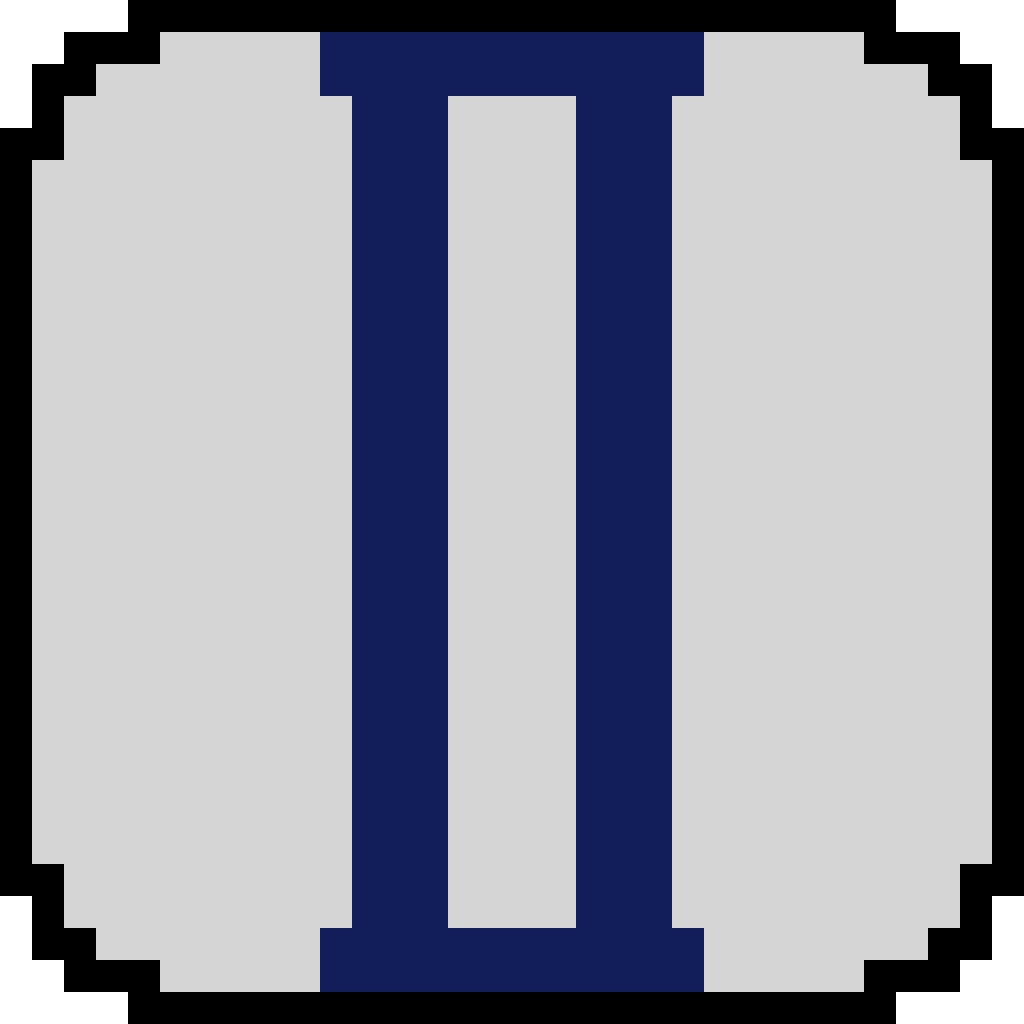
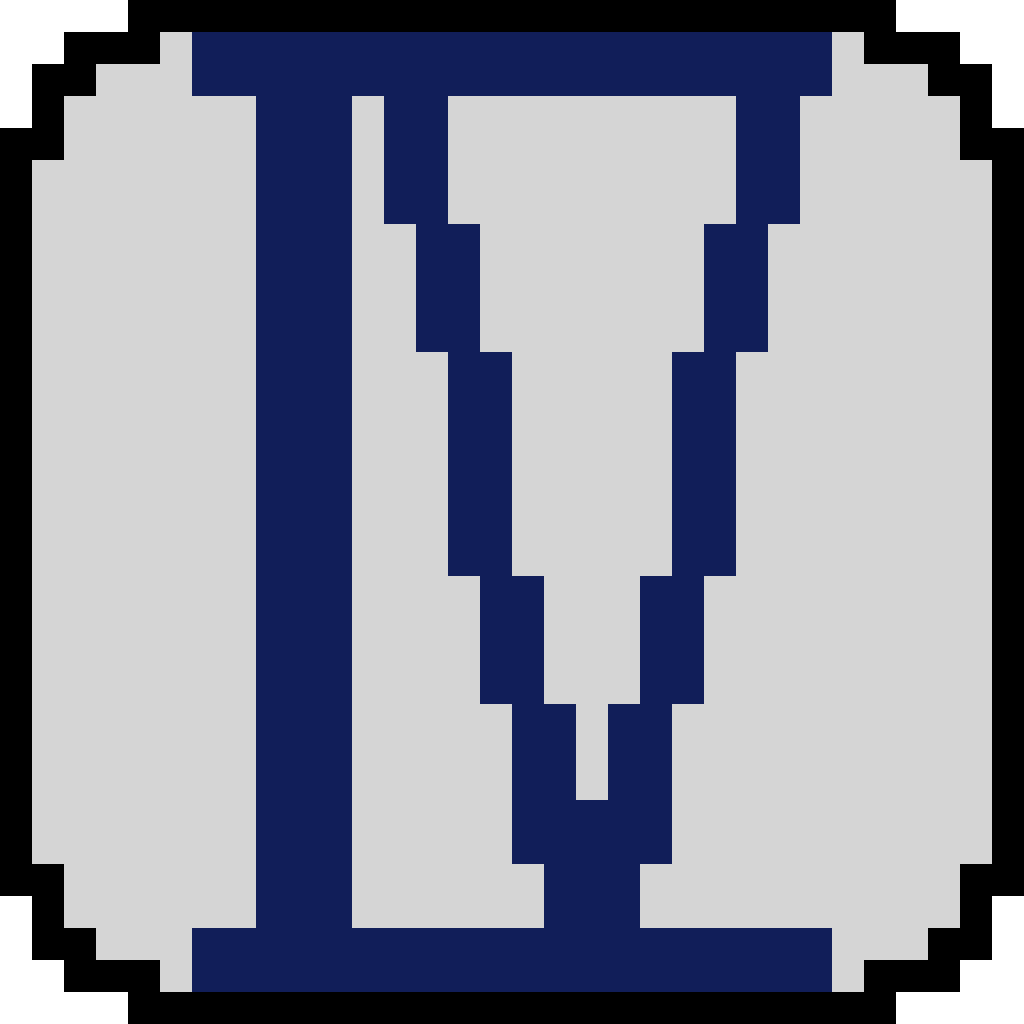
coins correct sprite and swapped levels?

Changed region(s): [[0.1875, 0.0312, 0.8125, 0.9688], [0.6875, 0.9062, 0.8125, 0.9688], [0.625, 0.8438, 0.6562, 0.9062]]

diff --git a/MEDU/Level.cs b/MEDU/Level.cs
@@ -57,6 +57,7 @@ namespace MEDU
             SolidTopLeft, SolidTopMid, SolidTopRight, 
             SolidMidLeft, SolidMidMid, SolidMidRight, 
             SolidBotLeft, SolidBotMid, SolidBotRight,
+            Coin
         }
 
         /// <summary>
@@ -220,7 +221,7 @@ namespace MEDU
                             }
                             break;
                         case 10://coin
-                            coins.Add(new Coin(new Rectangle(x*TILESIZE,y*TILESIZE, TILESIZE,TILESIZE), sprites[1])); //change sprite once coin sprite is uploaded
+                            coins.Add(new Coin(new Rectangle(x*TILESIZE,y*TILESIZE, TILESIZE,TILESIZE), sprites[17])); //change sprite once coin sprite is uploaded
                             goto case 0;
                         default:
                             System.Diagnostics.Debug.WriteLine($"Warning: Found invalid tile {data[dataIndex]} at coordinate ({x}, {y}).");
@@ -274,7 +275,7 @@ namespace MEDU
         /// </summary>
         public static void LoadAssets(ContentManager content)
         {
-            sprites = new Sprite[17];
+            sprites = new Sprite[18];
             sprites[(int)SpriteID.Pixel]         = new Sprite(content.Load<Texture2D>("pixel"));
             sprites[(int)SpriteID.CloudLeft]     = new Sprite(content.Load<Texture2D>("CloudLeft"));
             sprites[(int)SpriteID.CloudMid]      = new Sprite(content.Load<Texture2D>("CloudMid"));
@@ -292,6 +293,8 @@ namespace MEDU
             sprites[(int)SpriteID.DangerMid]     = new Sprite(content.Load<Texture2D>("DangerMid"));
             sprites[(int)SpriteID.DangerRight]   = new Sprite(content.Load<Texture2D>("DangerRight"));
             sprites[(int)SpriteID.Flag]          = new Sprite(content.Load<Texture2D>("Flag"));
+            sprites[(int)SpriteID.Coin]          = new Sprite(content.Load<Texture2D>("coin"));
+
         }
     }
 }
